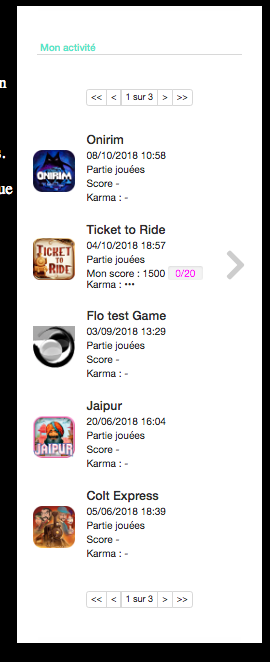
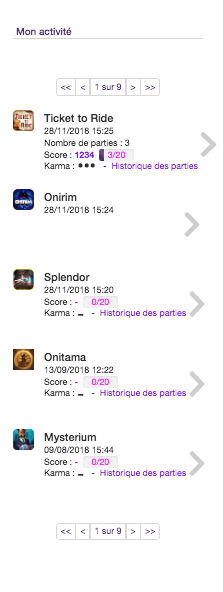
ANET-1097 & ANET-1098 update version doc and trans
- Update version of IS widgets version
- Update version of library
- Update example (remove old widgets)
- Update documentation

https://daysofwonder.atlassian.net/browse/ANET-1097

https://daysofwonder.atlassian.net/browse/ANET-1098

diff --git a/examples/index.html b/examples/index.html
@@ -24,11 +24,11 @@
         #buddies-collection-target {margin:10px;width: 440px; height: 190px;}
         #user-public-collection-target {margin:10px;width: 440px; height: 300px;}
         #user-public-activities-target {margin:10px;width: 500px; height: 644px;}
-        #user-public-collection-unlogged-target {margin:10px;width: 440px; height: 300px;}
-        #user-public-activities-unlogged-target {margin:10px;width: 500px; height: 644px;}
+        #user-public-ranking-unlogged-target {margin:10px;width: 440px; height: 300px; float: right;}
+        #user-public-activities-unlogged-target {margin:10px;width: 500px; height: 600px; }
         #vcard-4-target {margin: 10px; width: 550px;height: 200px;}
-        #vcard-618-target {margin: 5px; width: 170px;height: 320px;float: right;}
-        #container-wdgs, #unlogged-container-wdgs {display: flex;flex-wrap:wrap;}
+        #vcard-618-target {margin: 5px; width: 170px;height: 320px; float: right;}
+        #container-wdgs, .unlogged-container-wdgs {display: flex;flex-wrap:wrap;}
         </style>
         <script src="an_sso.min.0.3.2-1.js"></script>
         <!-- Load file for dev -->
@@ -37,7 +37,7 @@
         <script src="trans.js"></script> -->
 
         <!-- Load file for prod -->
-        <script src="dist/0.0.5/an_wdg.min.js"></script>
+        <script src="dist/0.0.6/an_wdg.min.js"></script>
     </head>
     <body>
         <script>AsmodeeNet.trackCb(false);</script>
@@ -68,11 +68,9 @@
             <div class="container-wdgs" style="display: none;">
                 <div id="buddies-activities-target"></div>
                 <div id="buddies-collection-target"></div>
-                <div id="user-public-collection-target"></div>
                 <div id="user-public-activities-target"></div>
             </div>
             <div class="unlogged-container-wdgs">
-                <div id="user-public-collection-unlogged-target"></div>
                 <div id="user-public-activities-unlogged-target"></div>
             </div>
         </div>
@@ -101,8 +99,7 @@
                 displayWidget('user-activities', {userProfile: {id: 'me'}});
                 displayWidget('buddies-activities');
                 displayWidget('buddies-collection', {bodyHeight: '160px'});
-                displayWidget('user-public-collection', {userProfile: {id: 618}});
-                displayWidget('user-public-activities', {module: 'user-activities', userProfile: {id: 618}});
+                displayWidget('user-public-activities', {module: 'user-activities', userProfile: {id: 618}, height: null, bodyHeight: null});
                 displayWidget('vcard-618', {module: 'v-card', userProfile: {id: 5}, width:'180px', height: '280px', bodyHeight: '200px', zoom: .8});
                 var wdgs = findMe('unlogged-container-wdgs', true);
                 for(var i = 0; i < wdgs.length; i++) {
@@ -147,8 +144,7 @@
             },
         }).discover();
         AsmodeeNet.Widget.init({lang: 'fr'});
-        displayWidget('user-public-collection-unlogged', {module: 'user-public-collection', userProfile: {id: 618}});
-        displayWidget('user-public-activities-unlogged', {module: 'user-activities', userProfile: {id: 618}});
+        displayWidget('user-public-activities-unlogged', {module: 'user-activities', userProfile: {id: 618}, height: null, bodyHeight: null});
         displayWidget('vcard-4', {module: 'v-card', userProfile: {id: 4}, height: '200px', bodyHeight: '180px', zoom: .9});
         </script>
     </body>

diff --git a/examples/simplest_example_unlogged.html b/examples/simplest_example_unlogged.html
@@ -10,7 +10,7 @@
    <script src="trans.js"></script> -->
 
    <!-- Load file for prod -->
-   <script src="dist/0.0.5/an_wdg.min.js"></script>
+   <script src="dist/0.0.6/an_wdg.min.js"></script>
    <style>
     body {
        background-color: black;

diff --git a/README.md b/README.md
@@ -123,8 +123,8 @@ Parameters:
 * `name`: _string_, mandatory. The name of the Widget you want to add. You can find the list here [Widgets list](#widgets-list)
 * `targetElementSelector`: _string_, mandatory. The ID of the HTML tag used as target to place the Widget. It should be a CSS Path selector ID (_#IDSTRING_)
 * `options`: _object_, optional. Some global options available for all Widgets. Some specific Widgets could add mandatory option parametrizable using this `options` object. In this case, the options will be described in the [Widgets list](#widgets-list).
-    - _`width`_: _mixte_, optional. If you want to force a specifc width for the Widget, indicate it here. It's taking the same type of value of the CSS width parameter: a specific width in pixel (`100px`) or in percentage (`50%`).
-    - _`height`_: _mixte_, optional. If you want to force a specifc height for the Widget, indicate it here. It's taking the same type of value of the CSS height parameter: a specific height in pixel (`100px`) or in percentage (`50%`).
+    - _`width`_: _mixed_, optional. If you want to force a specifc width for the Widget, indicate it here. It's taking the same type of value of the CSS width parameter: a specific width in pixel (`100px`) or in percentage (`50%`).
+    - _`height`_: _mixed_, optional. If you want to force a specifc height for the Widget, indicate it here. It's taking the same type of value of the CSS height parameter: a specific height in pixel (`100px`) or in percentage (`50%`).
     - _`zoom`_: _float_, optional. A CSS zoom factor to apply on the Widget.
 
 Asmodee.net Widgets use Media queries for their display. So there are desktop views, mobile views, tablet views, etc. Playing with values of _`width`_ and _`zoom`_ allows to display Widgets with a desktop view, by example, in a small authorized space (to prevent the activation of the mobile view).
@@ -156,7 +156,7 @@ Example:
     - `name`: `v-card` *(mandatory)*
     - `options`:
         - `userProfile`: {id: [user ID]} *(mandatory)*
-        - `bodyHeight`: "[height in pixel or %]" *(optional)* _mixte_, If you want to force a specifc height for the bdoy part of the widget, indicate it here. It's taking the same type of value of the CSS height parameter: a specific height in pixel (`100px`) or in percentage (`50%`).
+        - `bodyHeight`: "[height in pixel or %, or null]" *(optional)* _mixed_, If you want to force a specifc height for the body part of the panel's widget, indicate it here. It's taking the same type of value of the CSS height parameter: a specific height in pixel (`100px`) or in percentage (`50%`). You can pass 'null' value to don't force the sub panel-body height (default is '100%')
 
 
 | ![](/docs/screenshots/v-card-4.png) |
@@ -182,18 +182,13 @@ Example:
 |:--:|
 | *Current User activities with Desktop-like space (example: _{userProfile: {id: 'me'}}_)* |
 
-| ![](/docs/screenshots/public_activities_of_a_user.png) |
+| ![](/docs/screenshots/public_activities_of_a_user_mobile.png) |
 |:--:|
-| *Public activities of a specific user (_{userProfile: {id: 618}}_)* |
+| *Public activities of a specific user with mobile-like space (_{userProfile: {id: 618}}_)* |
 
-- `User's public collection`. Usable in `logged` and `unlogged` mode.
-    - `name`: `user-public-collection`
-    - `options`:
-        - `userProfile`: {id: ['me' OR user ID]} *(mandatory)*
-
-| ![](/docs/screenshots/public_collection_of_a_user.png) |
+| ![](/docs/screenshots/public_activities_of_a_user_desktop.png) |
 |:--:|
-| *Public collection of a specific user (example: _{userProfile: {id: 618}}_)* |
+| *Public activities of a specific user with Desktop-like space (_{userProfile: {id: 618}}_)* |
 
 
 - `User's buddies' activities`. Only in `logged` mode.
@@ -202,10 +197,6 @@ Example:
 | ![](/docs/screenshots/buddies_activity_mobile.png) |
 |:--:|
 | *Buddies activity in mobile view* |
-
-| ![](/docs/screenshots/buddies_activity_tablet.png) |
-|:--:|
-| *Buddies activity in tablet view* |
 
 | ![](/docs/screenshots/buddies_activity_desktop.png) |
 |:--:|
